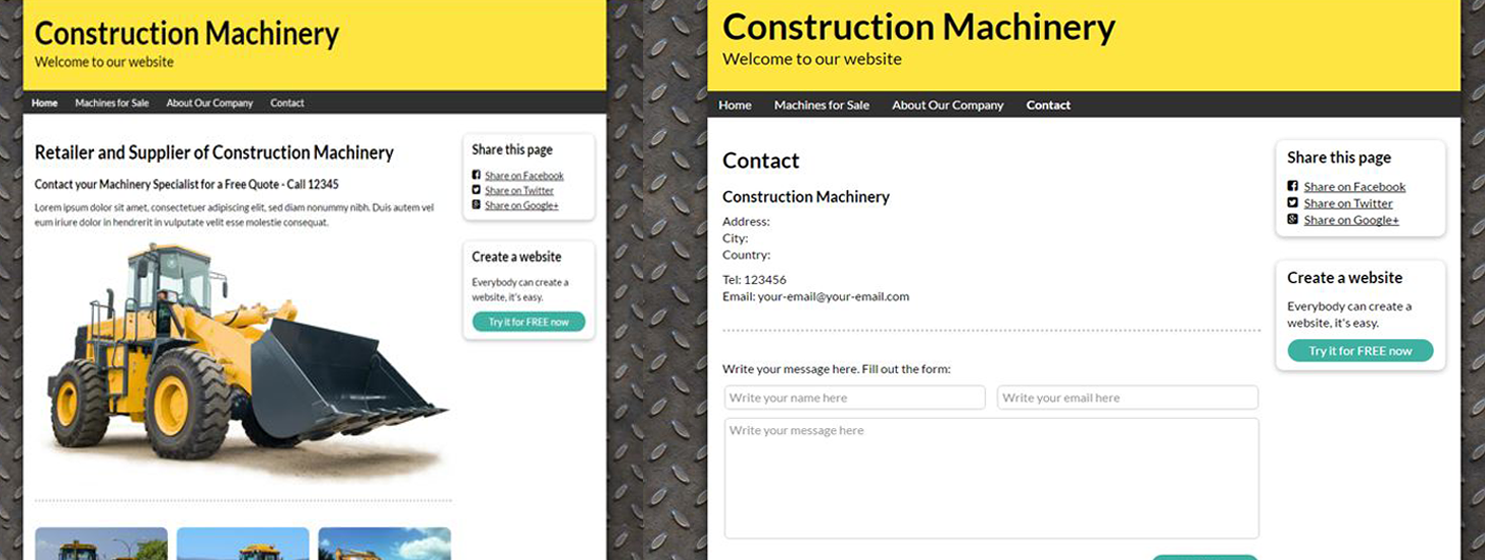
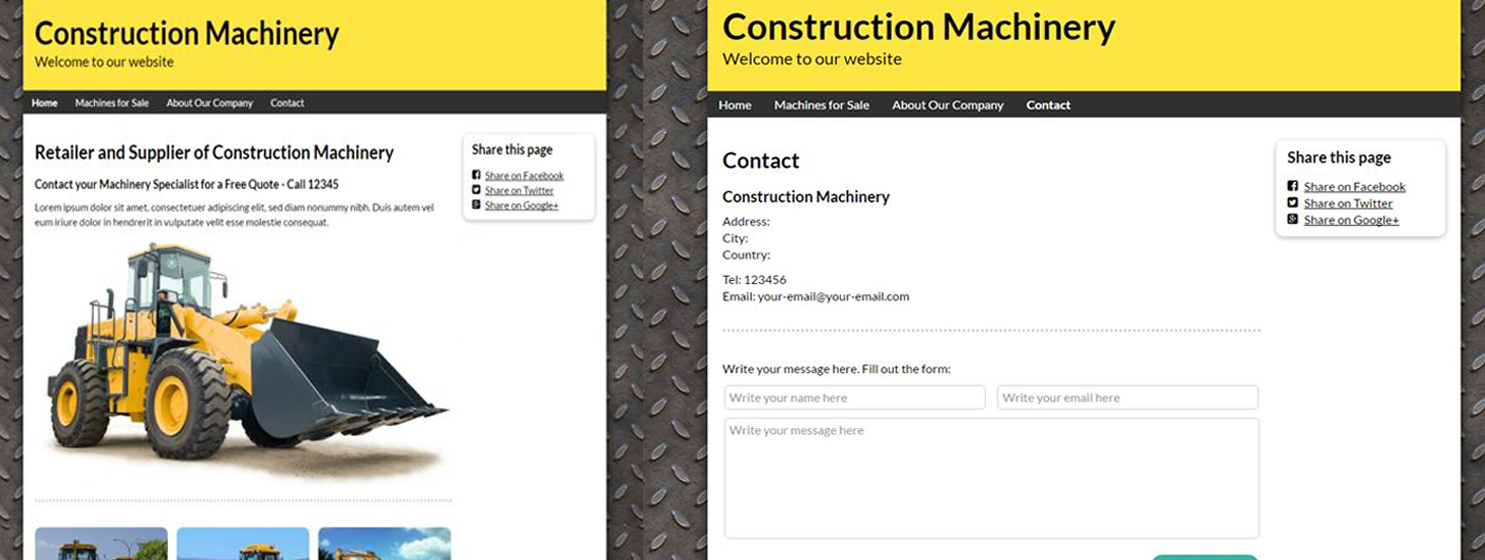
Update

Changed region(s): [[0.8673, 0.4857, 0.9912, 0.6679], [0.3098, 0.425, 0.4027, 0.6375]]

diff --git a/css/style.css b/css/style.css
@@ -3,43 +3,27 @@
 }
 
 body {
-    font-family: 'Segoe UI', Tahoma, Geneva, Arial, Helvetica, Verdana, sans-serif;
-    padding: 20px;
-    background: linear-gradient(90deg, rgba(83, 142, 134, 1) 0%, rgba(100, 236, 219, 1) 100%);
+    position: relative;
+    opacity: 0.9;
+    font-family: 'Segoe UI', Tahoma, Geneva, Verdana, sans-serif;
+    /* background: linear-gradient(90deg, rgba(83, 142, 134, 1) 0%, rgba(100, 236, 219, 1) 100%); */
+    background-color: #EFEFEF;
     width: 80%;
     margin: auto;
-}
-
-.leftcolumn {
-    float: left;
-    width: 75%;
-}
-
-.rightcolumn {
-    float: left;
-    width: 25%;
-    padding-left: 20px;
 }
 
 .card_img img {
     width: 100%;
     height: auto;
-    padding: 20px;
-}
-
-.right_img {
-    width: 100%;
-    height: auto;
-    background-color: #aaa;
-    padding: 20px;
+    border-radius: 5px;
 }
 
 .card {
     border-radius: 12px;
-    background-color: white;
+    background-color: #FFFFFF;
     padding: 20px;
+    padding-bottom: 30px;
     margin-top: 20px;
-    opacity: 0.8;
 }
 
 .content:after {
@@ -49,21 +33,26 @@ body {
 }
 
 button {
-    padding: 9px 25px;
-    background-color: turquoise;
+    padding: 10px 25px;
+    background-color: #222126;
+    color: #FFFFFF;
     border: none;
     border-radius: 50px;
     cursor: pointer;
     font-size: 16px;
     font-weight: bold;
     transition: all 0.3s ease 0s;
+    opacity: 1;
 }
 
 button:hover {
-    background-color: teal;
+    background-color: #03989E;
 }
 
 .card a {
-    display: inline-block;
-    margin-left: 40%;
+    margin: 0;
+    position: absolute;
+    left: 50%;
+    -ms-transform: translate(-50%, -50%);
+    transform: translate(-50%, -50%);
 }

diff --git a/index.html b/index.html
@@ -2,7 +2,6 @@
 <html>
 
 <head>
-
     <meta charset="UTF-8">
     <meta name="viewport" content="width=device-width, initial-scale=1.0">
     <title>Phạm Duy Phương</title>
@@ -10,17 +9,14 @@
     <link rel="stylesheet" type="text/css" href="css/style.css" />
     <link rel="stylesheet" type="text/css" href="css/header.css" />
     <link rel="stylesheet" type="text/css" href="css/footer.css" />
-
+    <script src="js/main.js"></script>
 </head>
 
 <body>
-    <!-- <div class="header">
-            <h2>My Project</h2> 
-        </div> -->
     <div class="wrapper">
         <nav>
             <ul class="main-menu">
-                <li><a style="color: tomato;" href="">Project</a></li>
+                <li><a style="color: #03989E;" href="">Project</a></li>
                 <li><a href="image/resume/cv.pdf">Resume</a></li>
                 <li><a href="https://www.facebook.com/zuyfun/">About Me</a></li>
             </ul>
@@ -28,7 +24,7 @@
     </div>
     <div class="content">
         <div class="card">
-            <h2>Construction Machinery</h2>
+            <h2>Construction Machinery Website</h2>
             <h5>Java, Jan 27, 2021</h5>
             <div class="card_img">Preview:
                 <img src="image/mini-project/mp1.png" />

diff --git a/css/header.css b/css/header.css
@@ -1,21 +1,12 @@
-/* .header {
-    padding: 30px;
-    font-size: 40px;
-    text-align: center;
-    background: wheat;
-    opacity: 0.8;
-    border-radius: 12px;
-  } */
-
 ul {
     list-style: none;
 }
 
 .wrapper {
+    margin: auto;
     border-radius: 12px;
     height: auto;
     background: #fff;
-    padding: auto;
 }
 
 nav {
@@ -46,7 +37,7 @@ nav {
     content: "";
     height: 5px;
     width: 0;
-    background: tomato;
+    background: #03989E;
     position: absolute;
     bottom: 0px;
     left: 0;

diff --git a/css/footer.css b/css/footer.css
@@ -3,5 +3,4 @@
      opacity: 0.8;
      text-align: center;
      background: #ddd;
-     margin-top: 20px;
  }
